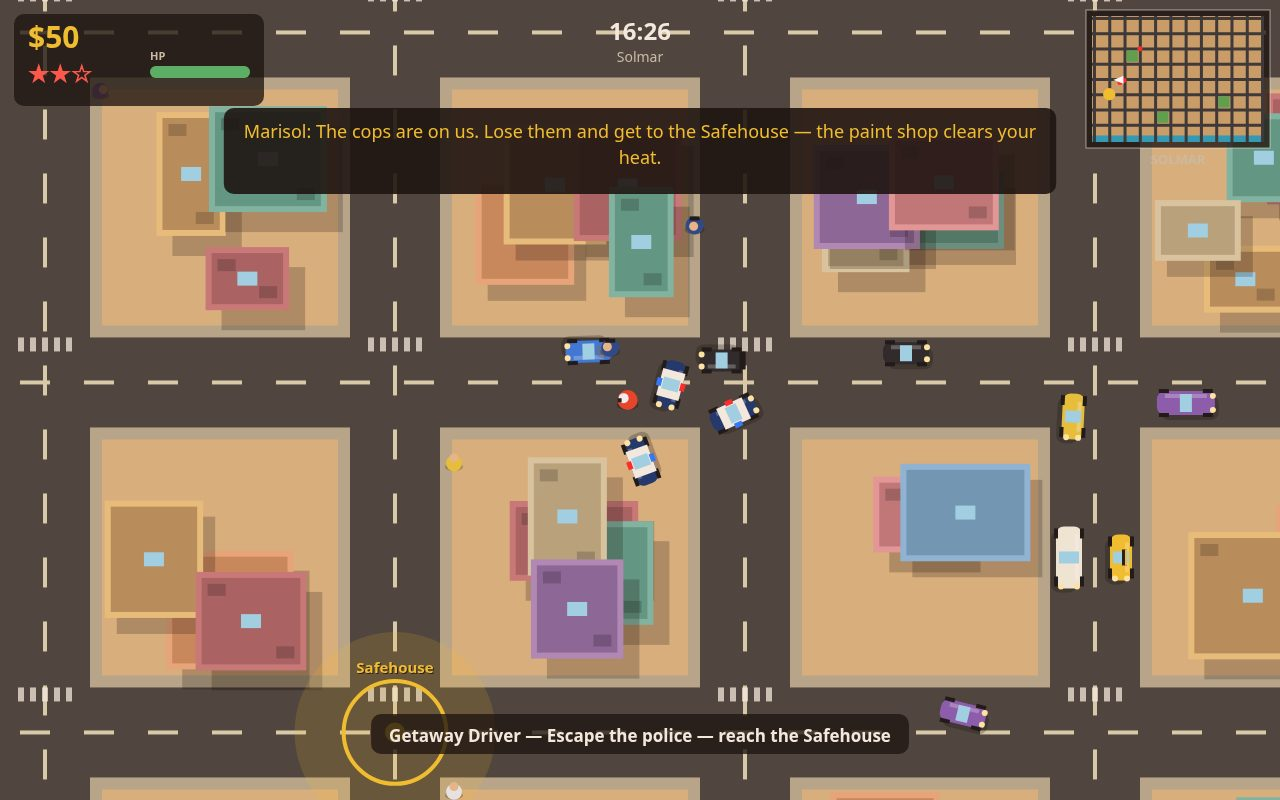
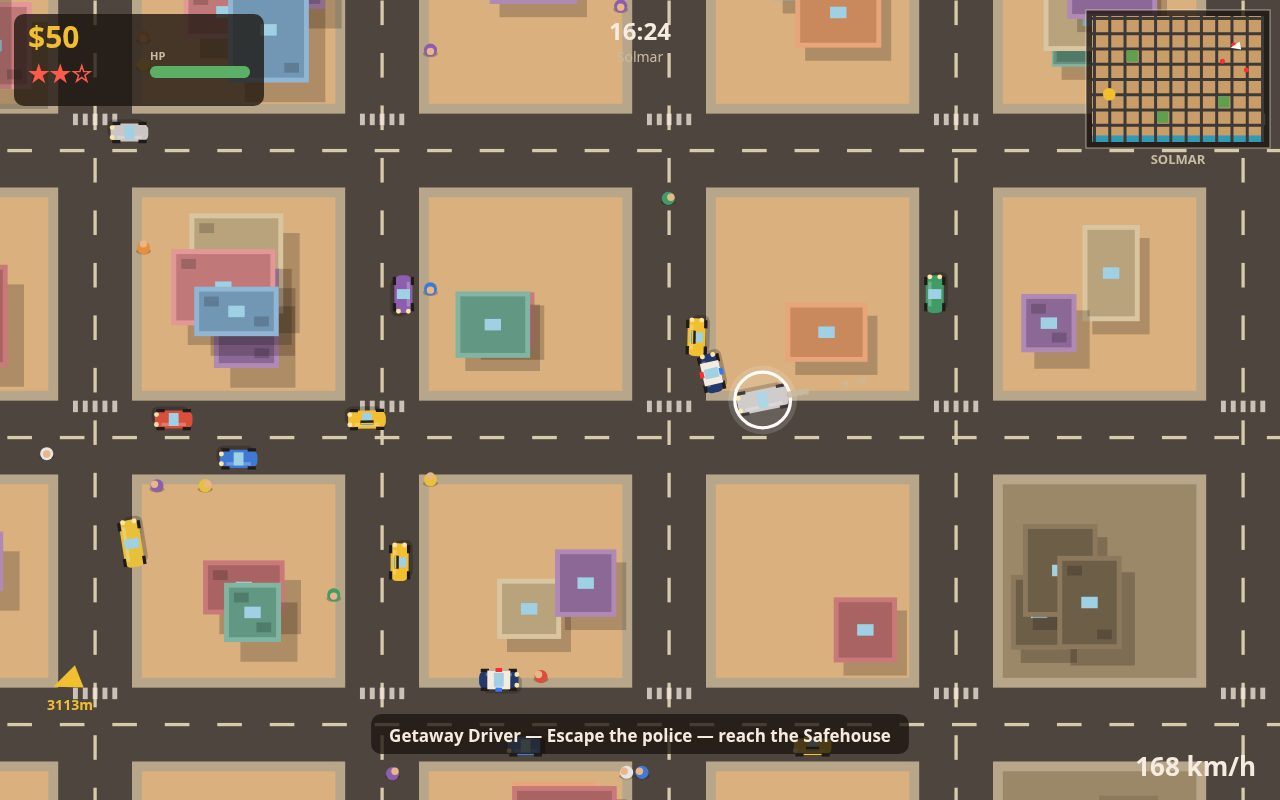
Fix player-car driving + shot staging
- traffic: stepCar no longer fights the player — a player-driven car is
  steered by the player, not the traffic system (it was decelerating the
  car to 0 every step, so no car could ever be driven)
- player: car-car collision nudges the other car forward instead of
  swapping speeds, so a stopped car can no longer pin the player
- police: patrol cars separate instead of piling onto each other
- shots: stepMissions now runs in runSim so missions advance while
  staging; autopilot throttles from a stop and reverses out when stuck
- shots: street scene retimed to 6s so the player is still approaching
  the Palmera Hotel (marker + briefing visible) at the frame
- screenshots re-captured: chase at 168 km/h with a cop on the tail,
  street at the hotel, dock job at 3 stars, heist escape with police
  converging

diff --git a/game/src/shots.js b/game/src/shots.js
@@ -10,7 +10,7 @@ import { resetGameState, clampCamera } from './state.js';
 import { stepPlayer, enterCar } from './player.js';
 import { stepTraffic, nearestCar } from './traffic.js';
 import { stepPolice } from './police.js';
-import { startMission, currentTarget } from './missions.js';
+import { startMission, currentTarget, stepMissions } from './missions.js';
 import { SCREEN_PLAY } from './render.js';
 
 /** A stand-in for the keyboard that the autopilot steers. */
@@ -56,6 +56,20 @@ function autopilotDrive(state, input, dt) {
     input.setDrive(0, false, false);
     return;
   }
+  // Stuck recovery: if the car has barely moved while throttling, reverse out for a
+  // second and re-path, instead of sitting against whatever is pinning it.
+  if (Math.abs(car.speed) < 15) car.stuckTimer = (car.stuckTimer || 0) + dt;
+  else car.stuckTimer = 0;
+  if (car.stuckTimer > 1.2) {
+    car.reverseTimer = 1;
+    car.stuckTimer = 0;
+    car.autoPath = null;
+  }
+  if (car.reverseTimer > 0) {
+    car.reverseTimer -= dt;
+    input.setDrive(0, false, true);
+    return;
+  }
   if (!car.autoPath || car.autoTimer <= 0) {
     car.autoPath = findPath(state.city, car.x, car.y, target.x, target.y);
     car.autoIndex = 0;
@@ -81,9 +95,11 @@ function autopilotDrive(state, input, dt) {
   while (diff > Math.PI) diff -= Math.PI * 2;
   while (diff < -Math.PI) diff += Math.PI * 2;
   const steer = clamp(diff * 2.2, -1, 1);
-  // Slow for corners: only throttle when roughly lined up, brake into sharp turns.
-  const go = Math.abs(diff) < 0.7;
-  const stop = Math.abs(diff) > 1.0 && Math.abs(car.speed) > 150;
+  // Slow for corners: only throttle when roughly lined up, brake into sharp turns — but a
+  // stopped car always throttles, or it can never turn and stays stuck at the corner.
+  const speed = Math.abs(car.speed);
+  const go = Math.abs(diff) < 0.7 || speed < 60;
+  const stop = Math.abs(diff) > 1.0 && speed > 150;
   input.setDrive(steer, go, stop);
 }
 
@@ -106,6 +122,7 @@ function runSim(state, input, seconds, drive) {
     stepPlayer(state, input, STEP);
     stepTraffic(state, STEP, state.rng);
     stepPolice(state, STEP, state.rng);
+    stepMissions(state, STEP, input);
     state.time += STEP;
     state.clockMinutes += STEP * 0.5;
     state.camera.x = state.player.x;
@@ -124,7 +141,7 @@ function runSim(state, input, seconds, drive) {
 }
 
 function putPlayerInCar(state, nearX, nearY, kind) {
-  const car = nearestCar(state.traffic.cars, nearX, nearY, 400);
+  const car = nearestCar(state.traffic.cars, nearX, nearY, 1500);
   if (!car) return false;
   if (kind) {
     car.kind = kind;
@@ -139,10 +156,13 @@ function putPlayerInCar(state, nearX, nearY, kind) {
 }
 
 const SCENES = {
-  chase: { mission: 2, seconds: 14, drive: true, carNear: 'garage' },
-  street: { mission: 1, seconds: 8, drive: false },
-  mission: { mission: 3, seconds: 12, drive: true, carNear: 'docks' },
-  escape: { mission: 4, seconds: 16, drive: true, carNear: 'casino', step: 1 },
+  // The chase starts far from the Safehouse so the escape is still on at the frame.
+  chase: { mission: 2, seconds: 9, drive: true, carNear: 'docks' },
+  // The walk starts far enough west that the player is still approaching the hotel at the
+  // frame (the pickup triggers inside 80 px, so 6 s leaves him ~200 px out, marker visible).
+  street: { mission: 1, seconds: 6, drive: false },
+  mission: { mission: 3, seconds: 12, drive: true, carNear: 'casino' },
+  escape: { mission: 4, seconds: 12, drive: true, carNear: 'casino', step: 1 },
 };
 
 /**
@@ -169,7 +189,7 @@ export function stageShot(name, state, seed) {
     runSim(state, input, scene.seconds, true);
   } else {
     const lm = state.city.landmarks.hotel;
-    state.player.x = lm.x - 320;
+    state.player.x = lm.x - 1200;
     state.player.y = lm.y + 60;
     runSim(state, input, scene.seconds, false);
   }

diff --git a/game/src/police.js b/game/src/police.js
@@ -215,6 +215,23 @@ export function stepPolice(state, dt, rng) {
   for (let index = 0; index < police.copCars.length; index += 1) {
     stepCopCar(state, police.copCars[index], dt, rng);
   }
+  // Keep patrol cars from piling onto each other as they converge on the player.
+  for (let a = 0; a < police.copCars.length; a += 1) {
+    for (let b = a + 1; b < police.copCars.length; b += 1) {
+      const ca = police.copCars[a];
+      const cb = police.copCars[b];
+      const d = dist(ca.x, ca.y, cb.x, cb.y);
+      if (d < 44 && d > 0.01) {
+        const push = (44 - d) / 2;
+        const ax = (cb.x - ca.x) / d;
+        const ay = (cb.y - ca.y) / d;
+        cb.x += ax * push;
+        cb.y += ay * push;
+        ca.x -= ax * push;
+        ca.y -= ay * push;
+      }
+    }
+  }
   for (let index = 0; index < police.footCops.length; index += 1) {
     stepFootCop(state, police.footCops[index], dt);
   }

diff --git a/game/src/player.js b/game/src/player.js
@@ -199,9 +199,10 @@ function stepDriving(state, input, dt) {
         spawnSparks(state, (car.x + other.x) / 2, (car.y + other.y) / 2);
         if (other.police) addHeat(state, WANTED.damageCopCar);
       }
-      const swap = car.speed * 0.5;
-      car.speed = other.speed * 0.4;
-      other.speed = swap;
+      // Nudge the other car forward instead of swapping speeds: a swap pins the
+      // player to a stopped car and the car can never get going again.
+      other.speed = Math.max(other.speed, Math.max(0, car.speed * 0.5));
+      car.speed *= 0.85;
     }
   }
   for (let index = 0; index < traffic.peds.length; index += 1) {

diff --git a/game/src/traffic.js b/game/src/traffic.js
@@ -86,7 +86,8 @@ function carAhead(cars, car) {
 }
 
 export function stepCar(car, city, cars, dt, rng) {
-  if (car.parked || !car.path) return;
+  // A car the player is driving is steered by the player, not by traffic.
+  if (car.parked || car.playerDriven || !car.path) return;
   const target = laneTarget(car);
   const d = dist(car.x, car.y, target.x, target.y);
   if (d < 26) {
